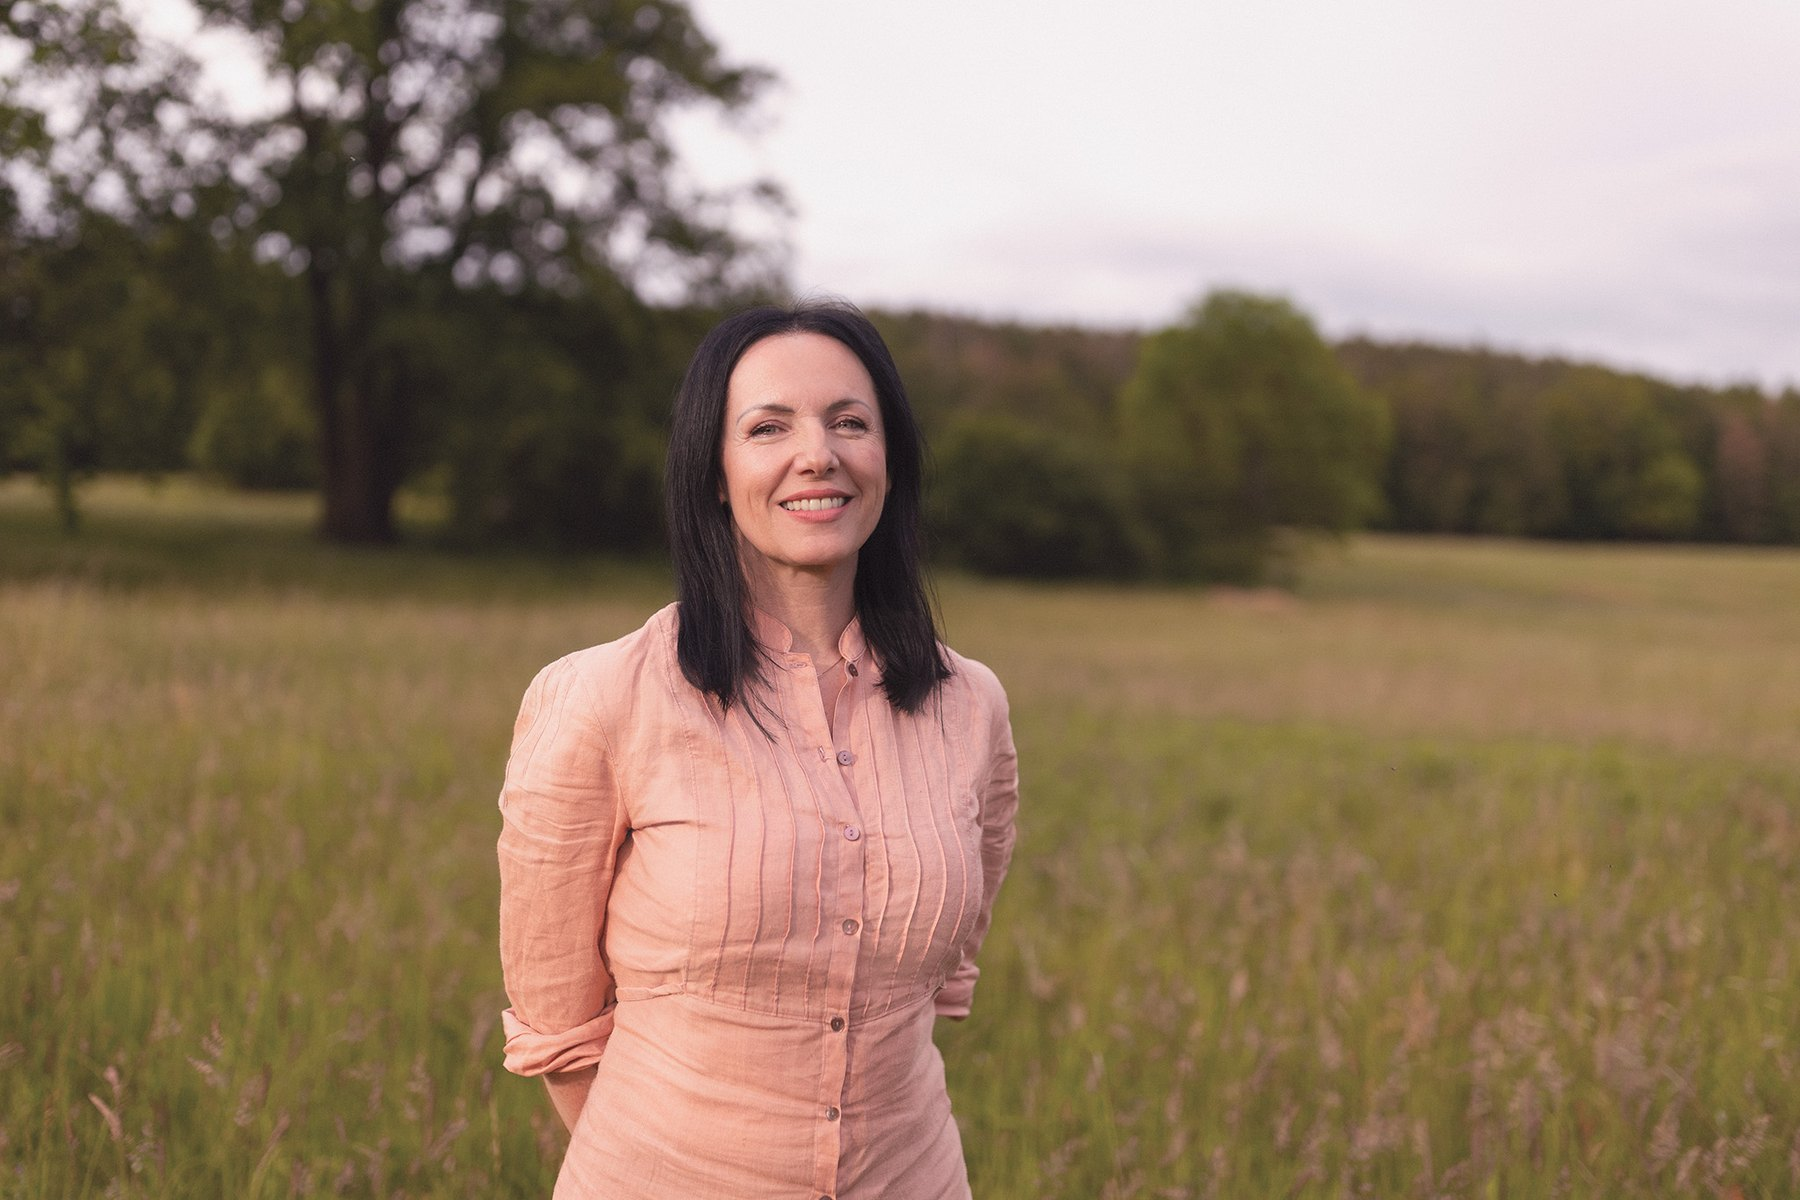
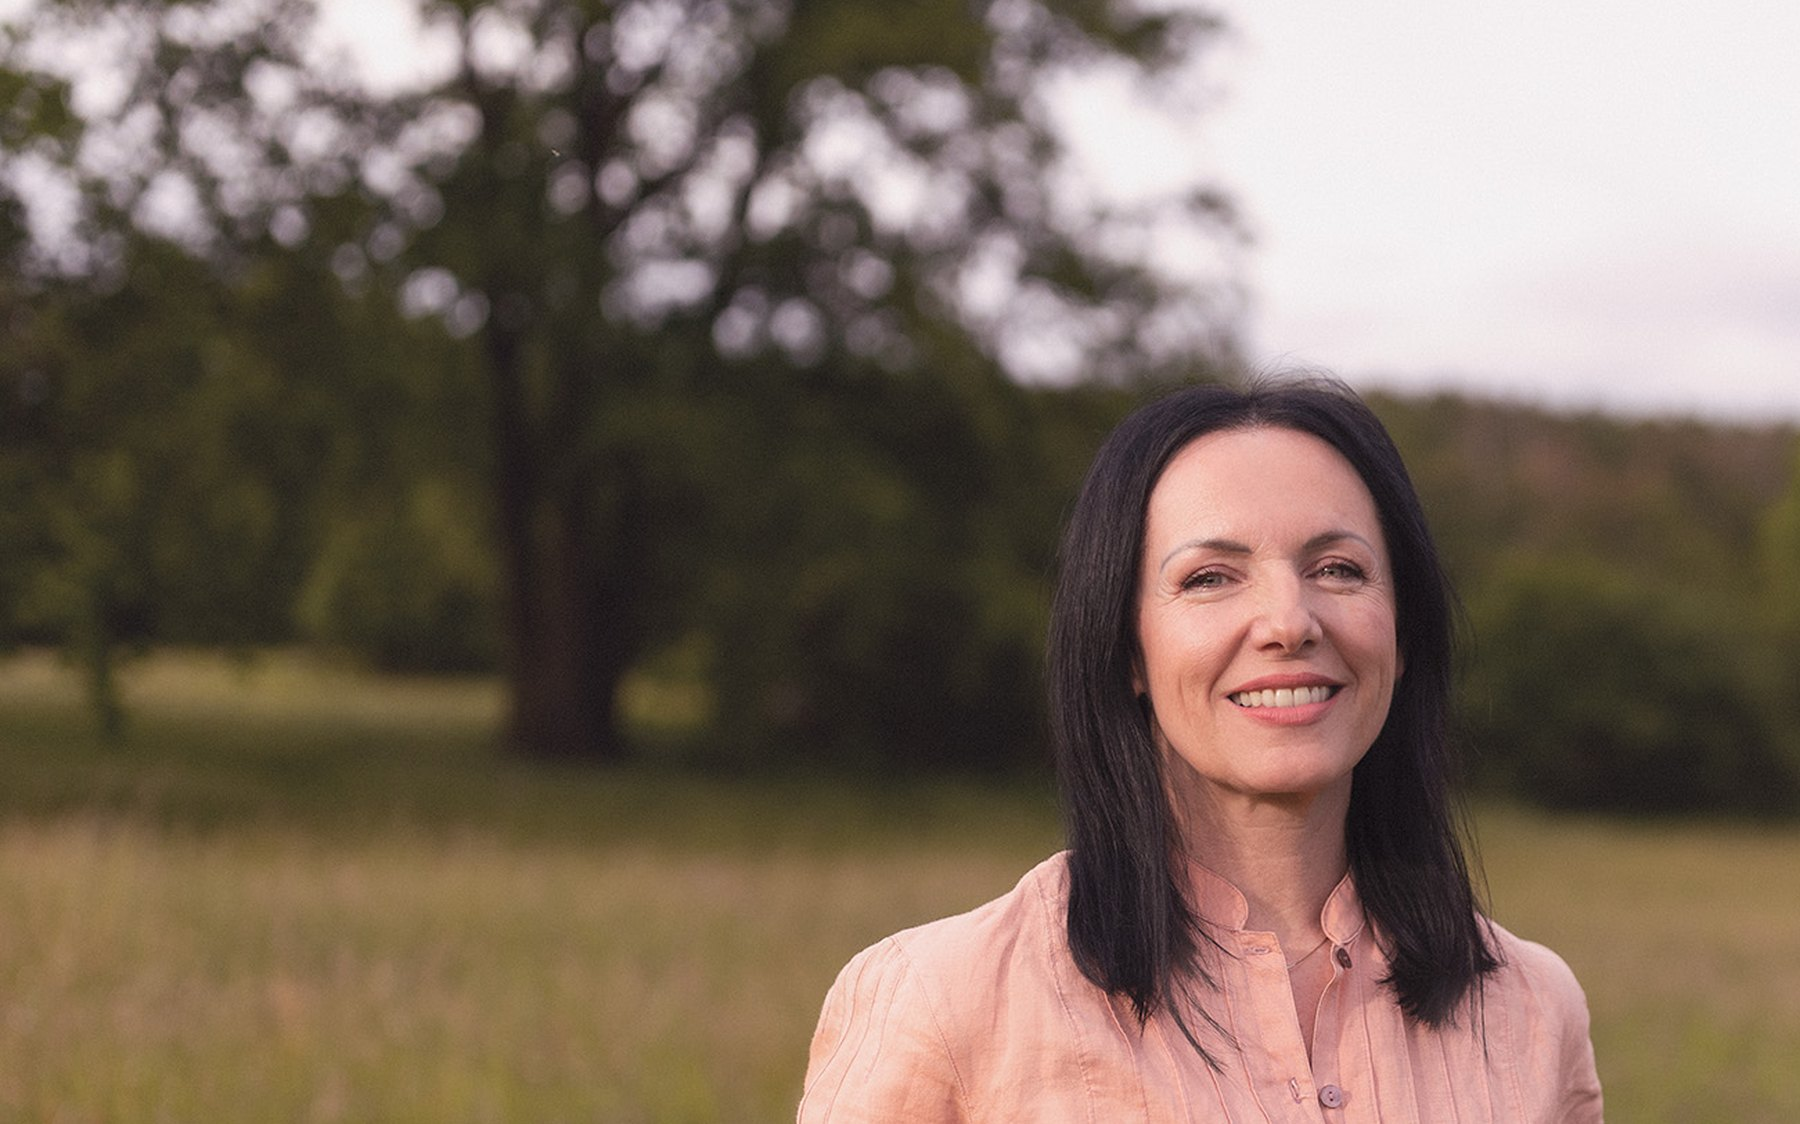
Juráková hero: přeořez fota – Petra posunuta doprava, text vlevo bez překryvu

diff --git a/petra-jurakova-v2/index.html b/petra-jurakova-v2/index.html
@@ -261,7 +261,7 @@
       width: 100%;
       height: 100%;
       object-fit: cover;
-      object-position: 22% 30%;
+      object-position: center 28%;
     }
     .hero-bg::after {
       content:'';
@@ -1117,7 +1117,7 @@
       .hero-sub { font-size: 1.02rem; }
       .hero-meta { gap: 30px; }
       .hero-meta-item .num { font-size: 1.9rem; }
-      .hero-bg img { object-position: center 25%; }
+      .hero-bg img { object-position: 64% 20%; }
       .about-banner { aspect-ratio: 16 / 9; max-height: 360px; }
       .about-banner-quote { font-size: 1.05rem; bottom: 24px; }
       .about-inner { padding: 70px 0; }
@@ -1200,7 +1200,7 @@
   <!-- ============== HERO (full-bleed) ============== */ -->
   <section class="hero" id="hero">
     <div class="hero-bg">
-      <img src="photos/hero-petra.jpg" alt="Mgr. Ing. Petra Juráková — psycholožka" style="object-position: 72% 30%;" />
+      <img src="photos/hero-petra.jpg" alt="Mgr. Ing. Petra Juráková — psycholožka" />
     </div>
     <div class="hero-content">
       <div class="hero-inner">